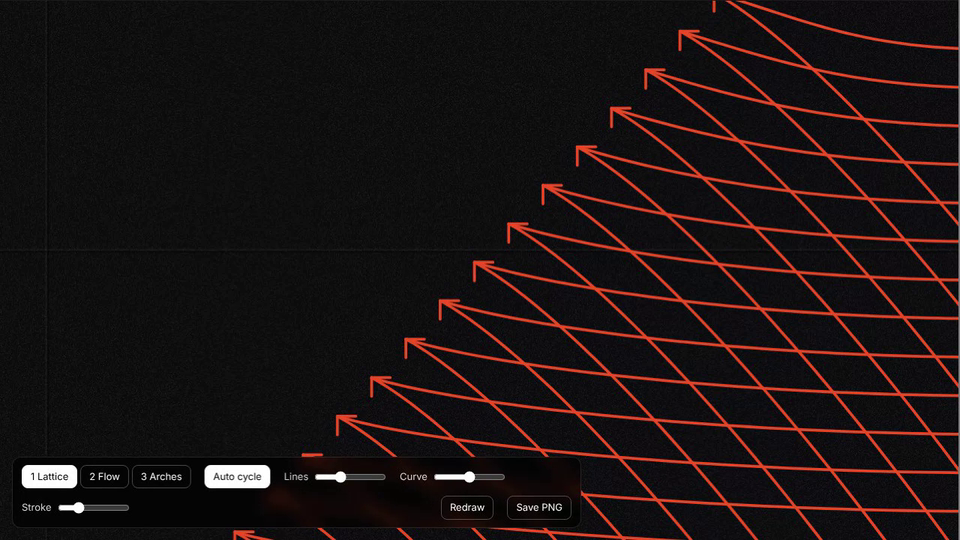
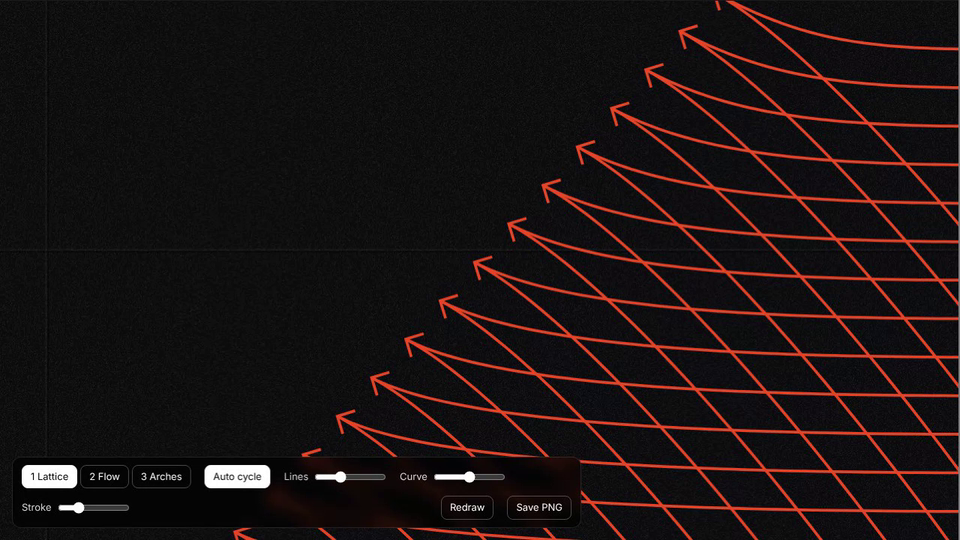
Arrow Line Generator: align arrowheads to each line's tangent, same tip direction for lattice lines
Claude-Session: https://claude.ai/code/session_01AHeBdzbntEVyK4MB7qmSf1

diff --git a/arrow-line-generator/index.html b/arrow-line-generator/index.html
@@ -66,8 +66,8 @@ const STYLES = [
   { name: 'Lattice', bg: '#0d0c0f', ink: '#e5462b', n: 15, stroke: 3.2, head: 21, hang: 45, ang: -135, grain: 1,
     anchor: (i, n, W, H) => { const t = i / (n - 1); return [(.745 - .5 * t) * W, (-.015 + 1 * t) * H]; },
     curves: (E, W, H) => [
-      [[1.04 * W, E[1] + .105 * H], [E[0] + .62 * (W - E[0]), E[1] + .105 * H], [E[0] + .18 * H, E[1] + .055 * H], E],
-      [[E[0] + .78 * H, E[1] + .86 * H], [E[0] + .42 * H, E[1] + .34 * H], [E[0] + .13 * H, E[1] + .07 * H], E]
+      [[1.04 * W, E[1] + .105 * H], [E[0] + .62 * (W - E[0]), E[1] + .105 * H], [E[0] + .17 * H, E[1] + .09 * H], E],
+      [[E[0] + .78 * H, E[1] + .86 * H], [E[0] + .42 * H, E[1] + .34 * H], [E[0] + .13 * H, E[1] + .069 * H], E]
     ] },
   { name: 'Flow', bg: '#f15439', ink: '#000000', n: 16, stroke: 2, head: 17, hang: 38, ang: -52, grain: 0,
     anchor: (i, n, W, H) => [.966 * W, (.08 + .065 * 15 * i / (n - 1)) * H],
@@ -106,6 +106,18 @@ function bez(c, t) {
   return [a * c[0][0] + b * c[1][0] + d * c[2][0] + e * c[3][0], a * c[0][1] + b * c[1][1] + d * c[2][1] + e * c[3][1]];
 }
 
+/* arrowhead direction = the line's own direction at the tip (bisector when two lines meet there) */
+function headAng(cs) {
+  let x = 0, y = 0;
+  for (const c of cs) {
+    let dx = c[3][0] - c[2][0], dy = c[3][1] - c[2][1];
+    if (Math.hypot(dx, dy) < 1e-3) { dx = c[3][0] - c[1][0]; dy = c[3][1] - c[1][1]; }
+    const l = Math.hypot(dx, dy) || 1; x += dx / l; y += dy / l;
+  }
+  return Math.atan2(y, x);
+}
+const lerpAng = (a, b, t) => a + Math.atan2(Math.sin(b - a), Math.cos(b - a)) * t;
+
 function frame() {
   const u = Math.min(H, W * .75) / 611;
   const A = STYLES[st.from], B = STYLES[st.to], m = st.m < 1 ? ease(st.m) : 1;
@@ -122,8 +134,8 @@ function frame() {
   }
   g.strokeStyle = g.fillStyle = mix(A.ink, B.ink, m);
   g.lineWidth = Math.max(1.1, L(A.stroke, B.stroke, m) * u * st.sw);
-  g.lineCap = 'round'; g.lineJoin = 'miter';
-  const hs = L(A.head, B.head, m) * u * Math.sqrt(st.sw), hang = L(A.hang, B.hang, m) * Math.PI / 180, ang = L(A.ang, B.ang, m) * Math.PI / 180;
+  g.lineCap = 'butt'; g.lineJoin = 'miter'; g.miterLimit = 10;
+  const hs = L(A.head, B.head, m) * u * Math.sqrt(st.sw), hang = L(A.hang, B.hang, m) * Math.PI / 180;
   for (let j = 0; j < M; j++) {
     const ia = ga ? Math.min(na - 1, Math.floor(j * na / M)) : 0, ib = Math.min(nb - 1, Math.floor(j * nb / M));
     const gp = clamp(st.intro * 1.7 - (j / M) * .7, 0, 1), p = ease(gp);
@@ -137,11 +149,12 @@ function frame() {
     }
     if (gp >= 1) {
       const E = ga ? [L(ga[ia].E[0], gb[ib].E[0], m), L(ga[ia].E[1], gb[ib].E[1], m)] : gb[ib].E;
+      const ang = ga ? lerpAng(headAng(ga[ia].cs), headAng(gb[ib].cs), m) : headAng(gb[ib].cs);
+      const a1 = ang + Math.PI - hang, a2 = ang + Math.PI + hang;
       g.beginPath();
-      for (const sgn of [-1, 1]) {
-        const a = ang + Math.PI + sgn * hang;
-        g.moveTo(E[0] + Math.cos(a) * hs, E[1] + Math.sin(a) * hs); g.lineTo(E[0], E[1]);
-      }
+      g.moveTo(E[0] + Math.cos(a1) * hs, E[1] + Math.sin(a1) * hs);
+      g.lineTo(E[0], E[1]);
+      g.lineTo(E[0] + Math.cos(a2) * hs, E[1] + Math.sin(a2) * hs);
       g.stroke();
     }
   }
